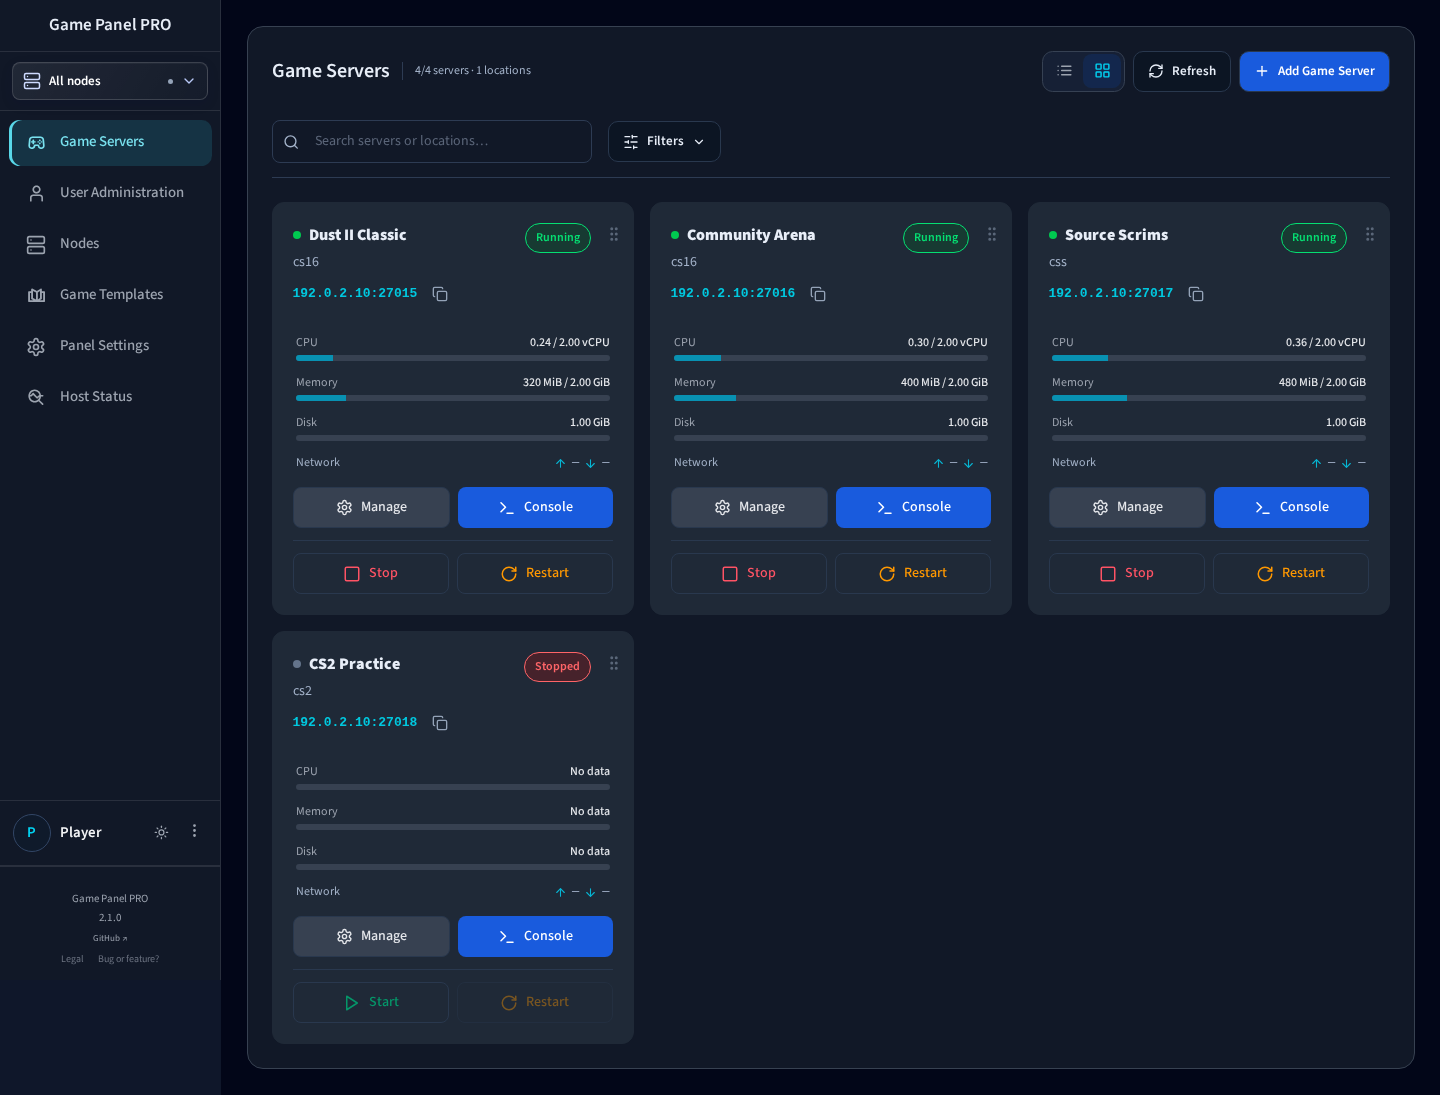
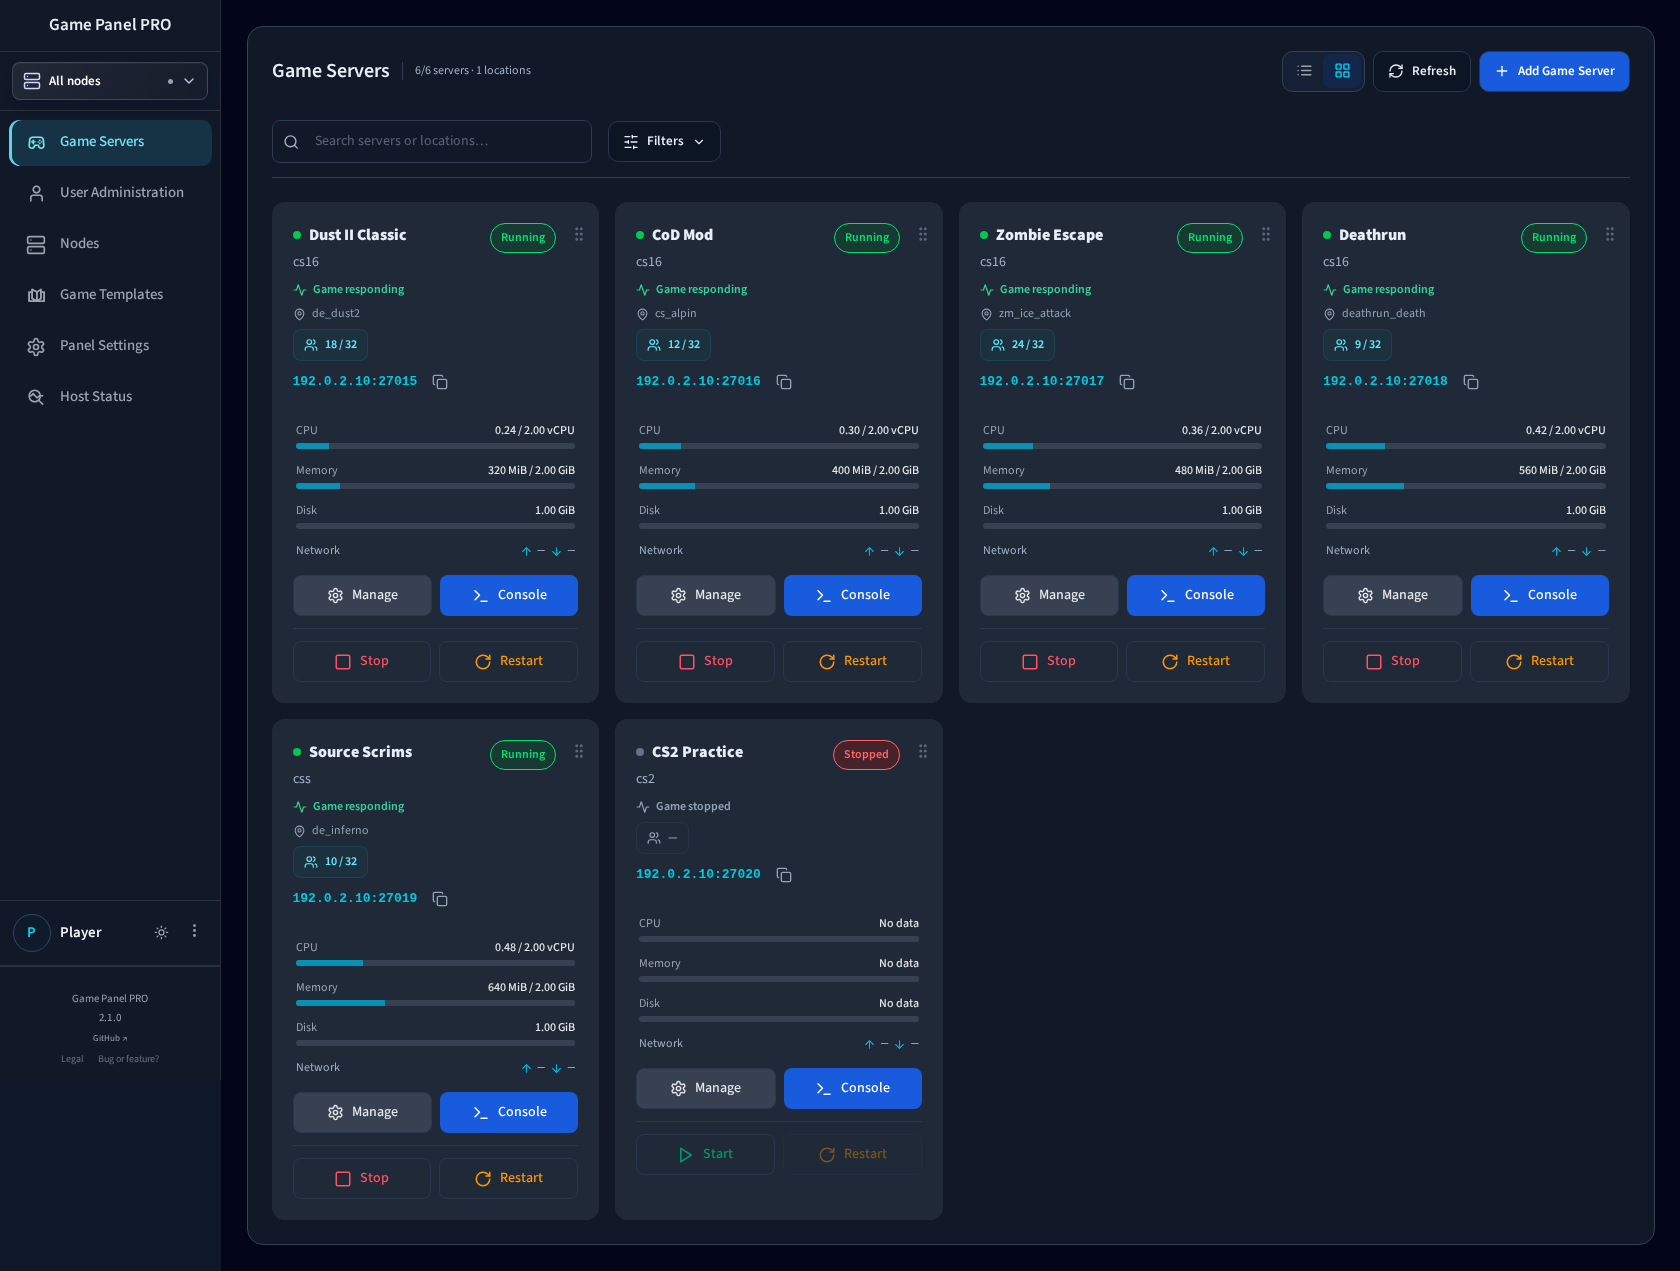
Show populated product workspaces and fix mobile status overlap

diff --git a/frontend/test/server-page.fixture.tsx b/frontend/test/server-page.fixture.tsx
@@ -5,6 +5,7 @@ import { createRoot } from 'react-dom/client';
 import { AppShell } from '../components/app/AppShell';
 import { ThemeProvider } from '../contexts/ThemeContext';
 import { BrandingProvider } from '../contexts/BrandingContext';
+import { cs16GameConfig } from '../../backend/src/templates/gameConfig';
 import '@ovhcloud/ods-react/normalize-css';
 import '@ovhcloud/ods-themes/default/css';
 import '@ovhcloud/ods-themes/default/fonts';
@@ -153,6 +154,31 @@ function Fixture() {
     handleOpenChangePassword: noop,
   };
   if (snapshot !== 'ready') props.gameServers = [];
+  if (new URLSearchParams(location.search).has('documentation')) {
+    props.currentUser.username = 'Operator';
+    const server = props.gameServers[0];
+    Object.assign(server, { name: 'Dust II Classic', connectionHost: '192.0.2.10', port: 27015,
+      monitoring: { enabled: true, state: 'online', checkedAt: new Date().toISOString(), staleAfterSeconds: 100, latencyMs: 5, failures: 0, info: { map: 'de_dust2', players: 18, maxPlayers: 32 } } });
+    const meta = JSON.parse(metadata);
+    meta.template.document.gameConfig = cs16GameConfig();
+    server.providerMetadataJson = JSON.stringify(meta);
+    const lines = [
+      'Protocol version 48', 'Exe version 1.1.2.7/Stdio (cstrike)',
+      'ReHLDS build: 3.15.0.896', 'Server IP address 192.0.2.10:27015',
+      'Metamod-r v1.3.0.149 loaded', 'AMX Mod X 1.10.0.5486 initialized',
+      '[AMXX] Loaded 24 plugins.', '[ReAPI] Module loaded successfully.',
+      'Loading map: de_dust2', 'Executing server configuration: server.cfg',
+      'VAC secure mode is activated.', 'Server ready for players',
+      '[AMXX] Map rotation loaded: 8 maps', '[Admin] Access list loaded: 3 administrators',
+      'Nova connected', 'Vortex connected', 'Echo connected', 'Frost connected',
+      'World triggered "Round_Start"', 'Nova killed Vortex with ak47',
+      'Echo killed Frost with m4a1', 'World triggered "Bomb_Planted"',
+      'World triggered "Terrorists_Win"', 'Team "TERRORIST" scored "4"',
+      'World triggered "Round_Start"', 'status',
+      'hostname: Dust II Classic', 'map: de_dust2   players: 18 active (32 max)',
+    ];
+    props.serverLogs['7'] = lines.map((message, id) => ({id, message, type:'info', timestamp:'2026-09-28T18:42:00Z'}));
+  }
   return <AppShell {...props} />;
 }
 createRoot(document.getElementById('root')!).render(

diff --git a/frontend/styles/premium-refinement.css b/frontend/styles/premium-refinement.css
@@ -105,12 +105,14 @@ html .gp-map-row button:disabled { opacity: .35; }
   .fleet-node-table thead { display: none; }
   .fleet-node-table tbody tr { display: grid; grid-template-columns: minmax(0,1fr) auto; gap: 10px; padding: 16px; margin-bottom: 12px; border: 1px solid var(--ui-line); border-radius: 12px; }
   html .fleet-node-table td { display: block; padding: 0; border: 0; min-width: 0; max-width: none; width: auto; }
-  .fleet-node-table td:nth-child(1) { grid-column: 1; grid-row: 1; align-self: center; }
-  .fleet-node-table td:nth-child(2) { grid-column: 1 / -1; grid-row: 2; }
-  .fleet-node-table td:nth-child(3) { grid-column: 2; grid-row: 1; justify-self: end; align-self: center; }
-  .fleet-node-table td:nth-child(4) { grid-column: 1 / -1; }
-  .fleet-node-table td:nth-child(5) { grid-column: 2; grid-row: 4; align-self: center; }
-  .fleet-node-table td:nth-child(6) { grid-column: 1; grid-row: 4; align-self: center; }
+  html .fleet-node-table td:nth-child(1) { grid-column: 1 / -1; grid-row: 1; min-width: 0; width: auto; max-width: none; }
+  .fleet-node-table td:nth-child(2) { grid-column: 1 / -1; grid-row: 3; }
+  .fleet-node-table td:nth-child(3) { grid-column: 1 / -1; grid-row: 2; }
+  .fleet-node-table td:nth-child(3) > div { display: flex; align-items: center; justify-content: space-between; gap: 12px; }
+  .fleet-node-table .gp-list-game-status { min-width: 0; max-width: 100%; }
+  .fleet-node-table td:nth-child(4) { grid-column: 1 / -1; grid-row: 4; }
+  .fleet-node-table td:nth-child(5) { grid-column: 2; grid-row: 5; align-self: center; }
+  .fleet-node-table td:nth-child(6) { grid-column: 1; grid-row: 5; align-self: center; }
   .fleet-node-table .fleet-node-management { justify-content: flex-start; }
   .fleet-node-table .fleet-node-management button { flex: 0 0 44px; }
   .fleet-node-table .fleet-node-power button { width: 44px; height: 44px; }

diff --git a/frontend/test/online-players.spec.ts b/frontend/test/online-players.spec.ts
@@ -68,6 +68,18 @@ test('count remains visible without roster permission; stale/stopped data never 
     await expect(page.getByRole('button',{name:/Online players for/})).toHaveCount(0);
   }
 });
+for (const width of [320, 390]) test(`mobile list keeps name above game status at ${width}px`, async ({page}) => {
+  await page.setViewportSize({width,height:844});
+  await setup(page); await page.goto('/test/fleet.fixture.html');
+  await page.getByRole('button',{name:'List view',exact:true}).click();
+  await expect(page.getByRole('button',{name:'Online players for Dust II: 2 / 32'})).toBeVisible();
+  const cells=page.locator('.fleet-node-table tbody tr').first().locator('td');
+  const name=await cells.nth(0).boundingBox();
+  const status=await cells.nth(2).boundingBox();
+  expect(name!.y+name!.height).toBeLessThanOrEqual(status!.y);
+  expect(await page.evaluate(()=>document.documentElement.scrollWidth<=innerWidth)).toBe(true);
+});
+
 test('revocation clears displayed names before any further node query', async ({page}) => {
   const fixture=await setup(page); await page.goto('/test/fleet.fixture.html');
   await page.getByRole('button',{name:'Online players for Dust II: 2 / 32'}).click();

diff --git a/docs/SCREENSHOTS.md b/docs/SCREENSHOTS.md
@@ -1,0 +1,44 @@
+# Game Panel PRO screenshots
+
+Actual application components with demonstration data. Addresses, player names, counts and logs are examples.
+
+## Server fleet
+
+![Server list with game response, maps, players and resource usage](screenshots/fleet-dark.png)
+
+[Light theme](screenshots/fleet-light.png) · [Cards](screenshots/fleet-cards.png) · [Mobile](screenshots/fleet-mobile.png)
+
+## Console
+
+![Console with game logs, status and resource metrics](screenshots/console-dark.png)
+
+## Configuration forms
+
+![Structured server configuration](screenshots/configuration-form.png)
+
+## Online players
+
+![Player roster with score and connection time](screenshots/online-players.png)
+
+## Nodes
+
+![Online runtime nodes](screenshots/nodes.png)
+
+## Network allocations
+
+![Configured addresses and TCP/UDP port ranges](screenshots/network-allocations.png)
+
+## Additional IP addresses
+
+![Persistent interfaces and the IP/MAC form](screenshots/additional-ip.png)
+
+## Reproduce
+
+Build the backend, start the frontend Vite server on `127.0.0.1:4178`, then run:
+
+```sh
+node scripts/capture-documentation.mjs
+node scripts/capture-workspaces.mjs
+```
+
+The scripts use local browser fixtures and intercept API requests; they do not connect to production.

diff --git a/README.md b/README.md
@@ -22,6 +22,14 @@ Built and maintained by **Skoczi**. Deploy it on your hardware, choose your runt
 
 [Light theme](docs/screenshots/fleet-light.png) · [Card view](docs/screenshots/fleet-cards.png) · [Mobile](docs/screenshots/fleet-mobile.png)
 
+| Console & live status | Configuration forms |
+| :--- | :--- |
+| [![Console with game logs and resource usage](docs/screenshots/console-dark.png)](docs/screenshots/console-dark.png) | [![Game configuration with structured fields](docs/screenshots/configuration-form.png)](docs/screenshots/configuration-form.png) |
+| **Runtime nodes** | **Additional IPs & virtual MACs** |
+| [![Online runtime nodes](docs/screenshots/nodes.png)](docs/screenshots/nodes.png) | [![Additional IP address form](docs/screenshots/additional-ip.png)](docs/screenshots/additional-ip.png) |
+
+[Player roster](docs/screenshots/online-players.png) · [Network allocations](docs/screenshots/network-allocations.png) · [Full screenshot gallery](docs/SCREENSHOTS.md)
+
 | Operate | Configure | Automate |
 | :--- | :--- | :--- |
 | Multi-node fleet with global server IDs | File editor, history and context actions | Scoped API v1 with an OpenAPI contract |
